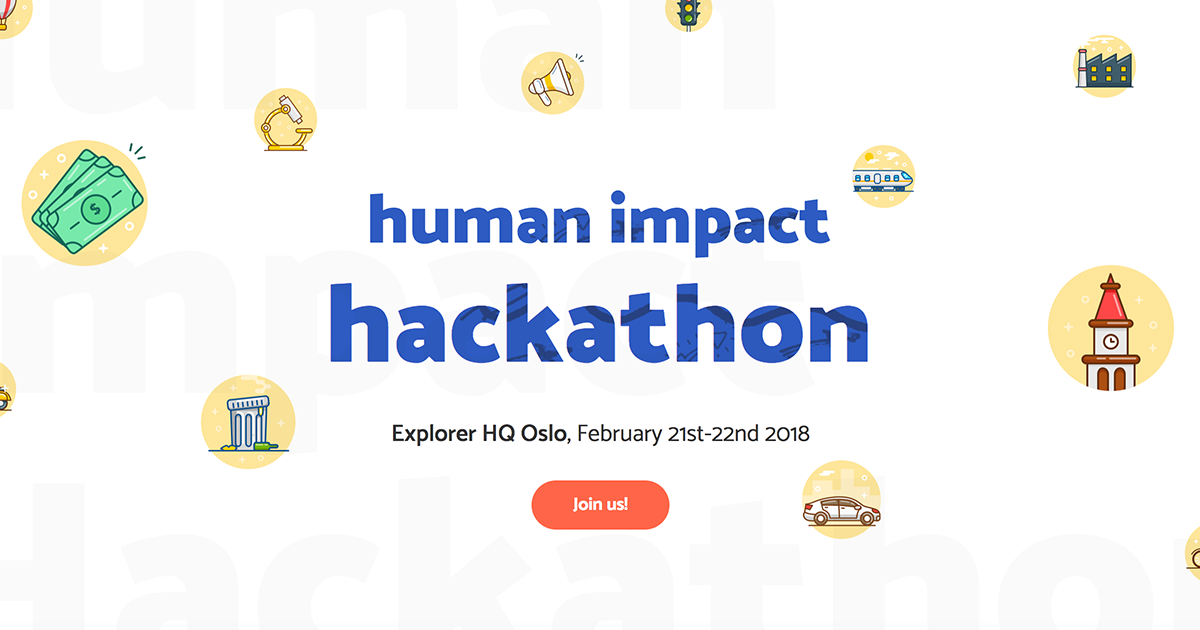
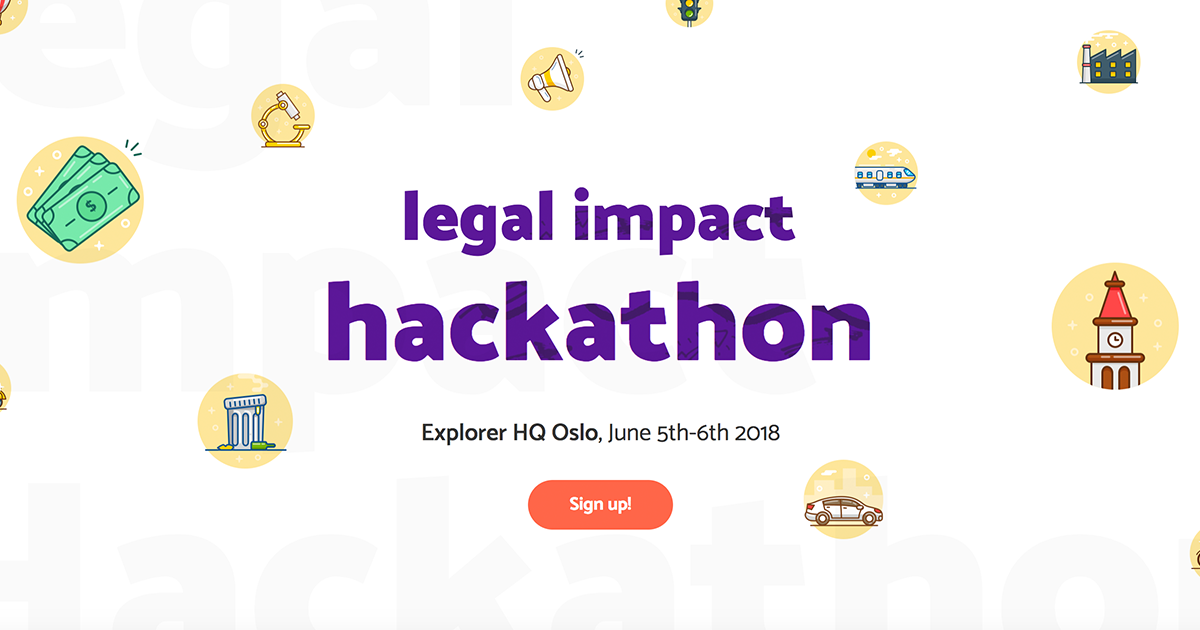
chore(): og & terms update

diff --git a/web/index.html b/web/index.html
@@ -3,15 +3,15 @@
   <head>
     <meta charset="utf-8">
     <meta name="viewport" content="initial-scale = 1.0,maximum-scale = 1.0" />
-    <title>Hacklag Human Impact Hackathon #1 - Oslo</title>
+    <title>Hacklag Legal Impact Hackathon - Oslo</title>
     <link rel="stylesheet" href="./normalize.css">
     <link rel="stylesheet" href="./style_v2.css">
     <link href="https://fonts.googleapis.com/css?family=Catamaran:400,600,700,900" rel="stylesheet">
     <meta prefix="og: http://ogp.me/ns#" property="og:type" content="website" />
-    <meta prefix="og: http://ogp.me/ns#" property="og:title" content="Human Impact Hackathon #01 - Oslo" />
-    <meta prefix="og: http://ogp.me/ns#" property="og:url" content="https://humanimpact.hacklag.org" />
-    <meta prefix="og: http://ogp.me/ns#" property="og:site_name" content="Human Impact Hackathon #01 - Oslo" />
-    <meta prefix="og: http://ogp.me/ns#" property="og:image" content="https://humanimpact.hacklag.org/img/ogimage.png" />
+    <meta prefix="og: http://ogp.me/ns#" property="og:title" content="Legal Impact Hackathon  - Oslo" />
+    <meta prefix="og: http://ogp.me/ns#" property="og:url" content="https://legalimpact.hacklag.org" />
+    <meta prefix="og: http://ogp.me/ns#" property="og:site_name" content="Legal Impact Hackathon  - Oslo" />
+    <meta prefix="og: http://ogp.me/ns#" property="og:image" content="https://legalimpact.hacklag.org/img/ogimage.png" />
     <!-- Global site tag (gtag.js) - Google Analytics -->
     <script async src="https://www.googletagmanager.com/gtag/js?id=UA-82338023-3"></script>
     <script>
